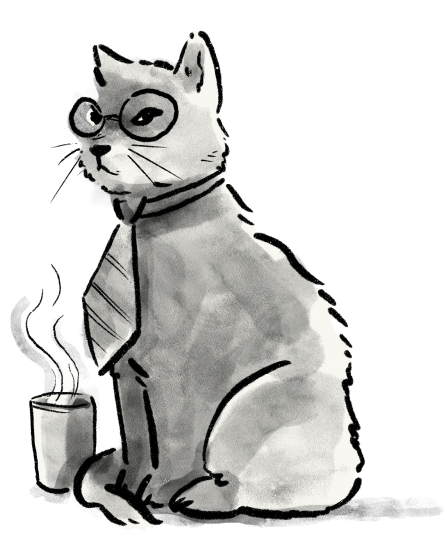
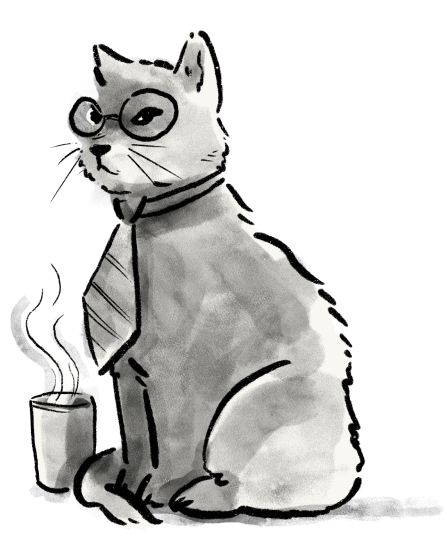
feat: use next images

diff --git a/apps/web/pages/index.tsx b/apps/web/pages/index.tsx
@@ -12,11 +12,15 @@ import {
   useBreakpointValue,
   VStack,
 } from "@chakra-ui/react";
-import dynamic from "next/dynamic";
 import NextLink from "next/link";
 import React from "react";
 import { MdChevronRight } from "react-icons/md";
 import { BasicLayout } from "../layouts/BasicLayout";
+import StudiousCat from "../public/studious-cat.png";
+import TypingTeacher from "../public/typing-teacher.png";
+import ComputerMonitor from "../public/computer-monitor.png";
+import ImaginativeKid from "../public/imaginative-kid.png";
+import { ChakraNextImage, Sizes } from "../components/ChakraNextImage";
 
 const HomePage: React.FC = () => {
   const bodySize = { base: "md", md: "xl", lg: "1.3rem" };
@@ -72,10 +76,12 @@ const HomePage: React.FC = () => {
             </Button>
           </Flex>
         </Container>
-        <Image
+        <ChakraNextImage
+          alt="Studious Cat"
           display={{ base: "none", lg: "block" }}
-          src="/studious-cat.png"
+          src={StudiousCat}
           h="25rem"
+          placeholder="blur"
         />
       </Flex>
 
@@ -85,7 +91,7 @@ const HomePage: React.FC = () => {
           gap={{ base: 6, lg: 10 }}
           alignItems={{ base: "start", lg: "center" }}
         >
-          <Image src="/typing-teacher.png" h={64} />
+          <ChakraNextImage src={TypingTeacher} h={64} />
           <Box maxW="2xl">
             <Heading as="h2" fontSize={{ base: "2xl", md: "4xl" }}>
               Digital Lesson Plans
@@ -115,7 +121,7 @@ const HomePage: React.FC = () => {
               publishers to convert your lessons into digital resources.
             </Text>
           </Box>
-          <Image src="/computer-monitor.png" h={56} />
+          <ChakraNextImage src={ComputerMonitor} h={56} />
         </HStack>
 
         <HStack
@@ -123,7 +129,7 @@ const HomePage: React.FC = () => {
           gap={{ base: 6, lg: 10 }}
           alignItems={{ base: "start", lg: "center" }}
         >
-          <Image src="/imaginative-kid.png" h={64} />
+          <ChakraNextImage src={ImaginativeKid} h={64} />
           <Box maxW="2xl">
             <Heading as="h2" fontSize={{ base: "2xl", md: "4xl" }}>
               Promote Collaboration

diff --git a/apps/web/components/ChakraNextImage.tsx b/apps/web/components/ChakraNextImage.tsx
@@ -1,0 +1,17 @@
+import NextImage from "next/image";
+import { chakra } from "@chakra-ui/react";
+
+export const ChakraNextImage = chakra(NextImage, {
+  baseStyle: { maxH: 120, maxW: 120 },
+  shouldForwardProp: (prop) =>
+    [
+      "width",
+      "height",
+      "src",
+      "alt",
+      "quality",
+      "placeholder",
+      "blurDataURL",
+      "loader ",
+    ].includes(prop),
+});
